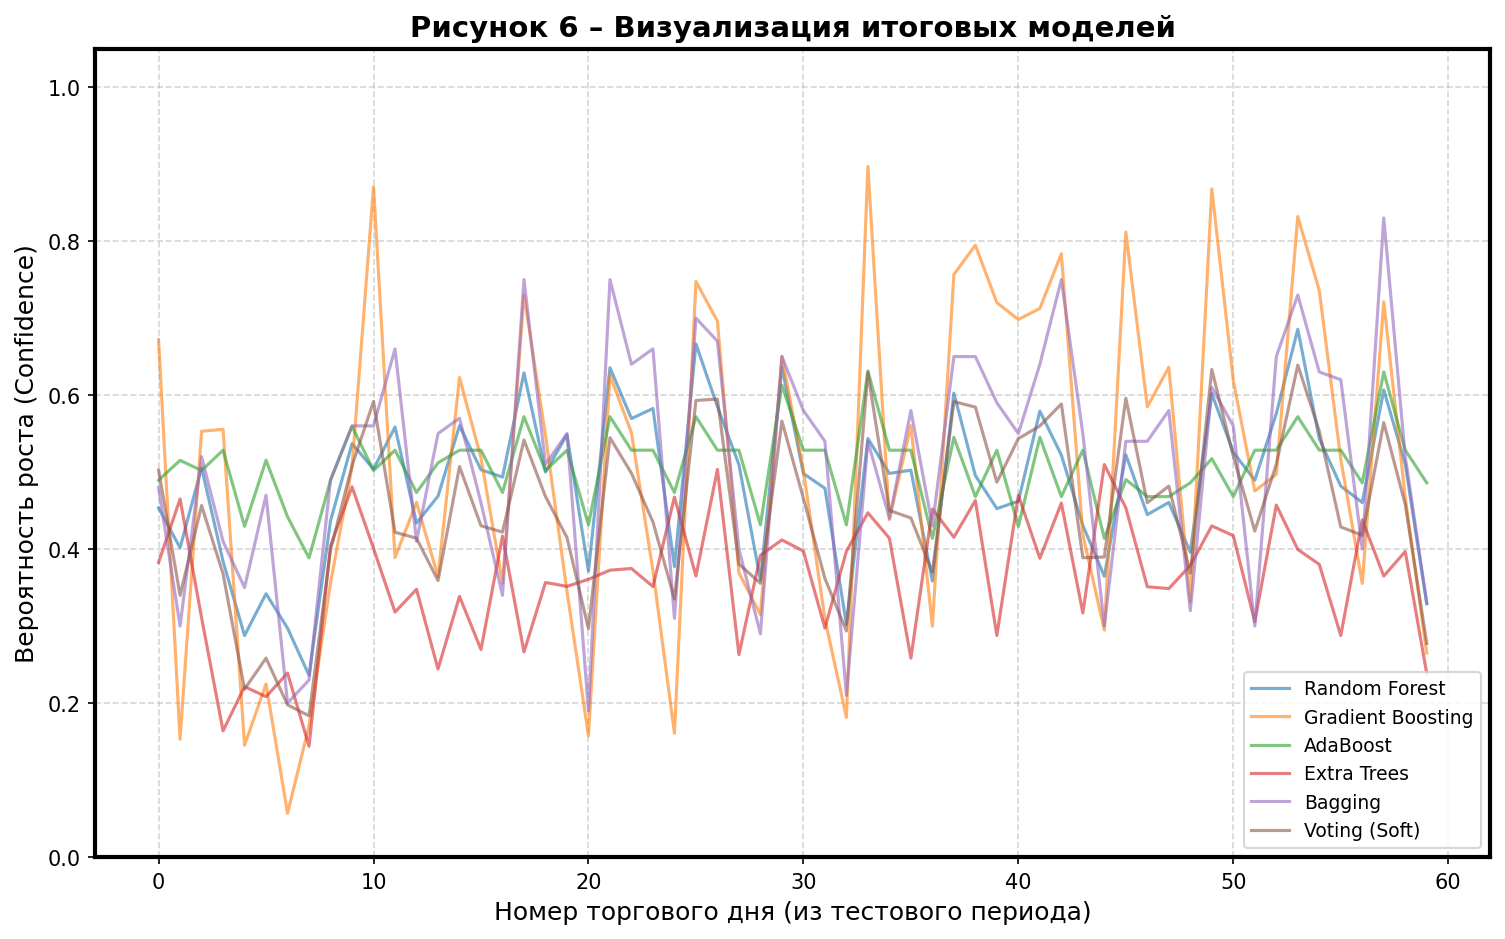
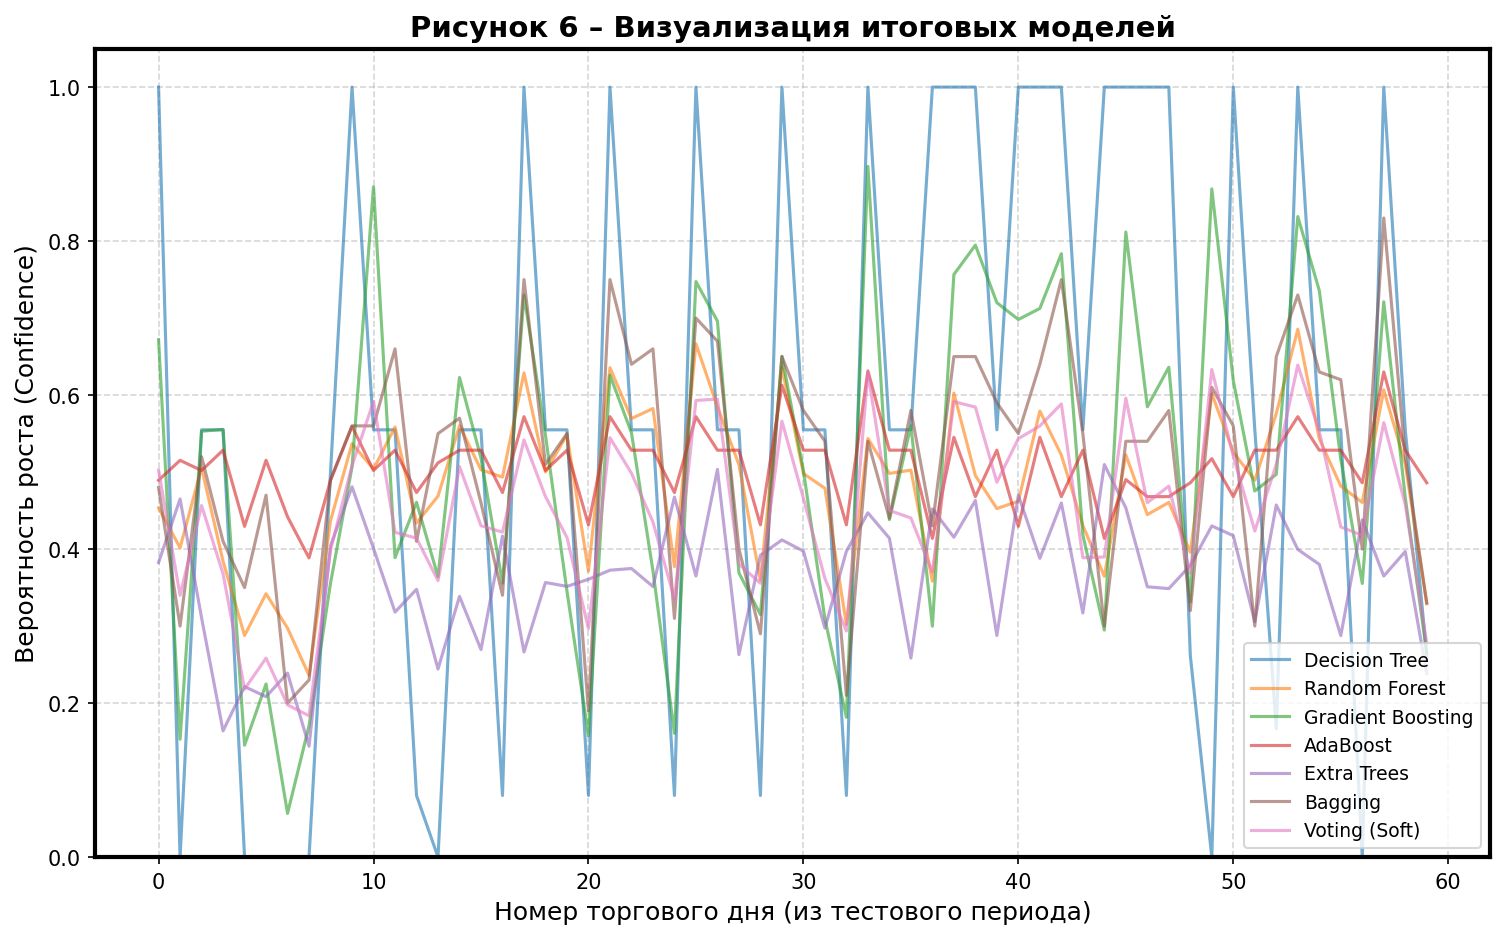
fixes

diff --git a/testing/3_0_cross_validation.py b/testing/3_0_cross_validation.py
@@ -1,12 +1,10 @@
-"""
-Запускать из корня проекта: python3 testing/3_0_cross_validation.py
-"""
 import sys
 from pathlib import Path
 sys.path.insert(0, str(Path(__file__).resolve().parent.parent))
 
 import pandas as pd
-from sklearn.model_selection import cross_val_score, KFold
+import matplotlib.pyplot as plt
+from sklearn.model_selection import cross_val_score, TimeSeriesSplit
 from data_utils import get_splits
 from design.models import all_models
 
@@ -14,15 +12,32 @@ X_train, X_test, y_train, y_test, _ = get_splits()
 X = pd.concat([X_train, X_test], axis=0).reset_index(drop=True)
 y = pd.concat([y_train, y_test], axis=0).reset_index(drop=True)
 
-cv = KFold(n_splits=5, shuffle=False, random_state=None)
-print("K-fold кросс-валидация (k=5), метрика: accuracy")
-print("=" * 60)
+tscv = TimeSeriesSplit(n_splits=5)
 
+results = {}
 for name, model in all_models.items():
-    scores = cross_val_score(model, X, y, cv=cv, scoring='accuracy', n_jobs=-1)
+    scores = cross_val_score(model, X, y, cv=tscv, scoring='accuracy', n_jobs=-1)
     mean_acc = scores.mean()
     std_acc = scores.std()
-    print(f"{name}: {mean_acc:.4f} (+/- {std_acc:.4f})  [fold scores: {scores.round(4)}]")
+    results[name] = {'mean': mean_acc, 'std': std_acc, 'scores': scores}
+    print(f"{name:22s}: {mean_acc:.4f} (+/- {std_acc:.4f})")
 
-print("=" * 60)
-print("Итоговая эффективность модели должна оцениваться на отложенной тестовой выборке (см. 3_1_metrics, 2_3_results).")
+fig, ax = plt.subplots(figsize=(12, 7))
+names = list(results.keys())
+means = [results[n]['mean'] for n in names]
+stds = [results[n]['std'] for n in names]
+
+bars = ax.barh(names, means, xerr=stds, color='#00BFFF', edgecolor='black', capsize=5)
+ax.axvline(x=0.5, color='red', linestyle='--', linewidth=2, label='Случайное угадывание (50%)')
+ax.set_xlabel('Средняя точность (Accuracy)', fontsize=12)
+ax.set_title('Рисунок 10 – Кросс-валидация (TimeSeriesSplit, k=5)', fontsize=14, fontweight='bold')
+ax.set_xlim(0.3, 0.7)
+ax.legend(loc='lower right')
+ax.invert_yaxis()
+
+for i, (mean, std) in enumerate(zip(means, stds)):
+    ax.text(mean + std + 0.01, i, f'{mean:.3f}', va='center', fontsize=10, fontweight='bold')
+
+plt.tight_layout()
+plt.savefig('images/Figure_10_CrossValidation.png', dpi=150, bbox_inches='tight')
+plt.close()

diff --git a/design/2_3_results.py b/design/2_3_results.py
@@ -14,23 +14,37 @@ results = {}
 train_times = {}
 trained_models = {}
 
+
 for name, model in all_models.items():
-    t0 = time.perf_counter()
+    t0 = time.time()
     model.fit(X_train, y_train)
-    elapsed = time.perf_counter() - t0
+    elapsed = time.time() - t0
+    
     train_times[name] = elapsed
     preds = model.predict(X_test)
     acc = accuracy_score(y_test, preds)
     results[name] = acc
     trained_models[name] = model
-    print(f"{name}: accuracy {acc:.2%}, время обучения {elapsed:.2f} с")
+    print(f"{name:22s}: Accuracy {acc:.2%}, Время обучения: {elapsed:.4f} сек")
+
+print("="*70)
+
+print("\n" + "="*70)
+print("СВОДКА РЕЗУЛЬТАТОВ")
+print("="*70)
+sorted_res = sorted(results.items(), key=lambda x: x[1], reverse=True)
+print(f"{'Модель':<24} {'Accuracy':>10} {'Время (сек)':>12}")
+print("-"*48)
+for name, acc in sorted_res:
+    print(f"{name:<24} {acc:>10.4f} {train_times[name]:>12.4f}")
+print("="*70)
 
 plt.figure(figsize=(12, 7))
 slice_len = 60
 X_plot = X_test.iloc[:slice_len]
 
 for name, model in trained_models.items():
-    if name == 'Voting (Hard)':
+    if name in ['Voting (Hard)', 'Logistic Regression']:
         continue
     probs = model.predict_proba(X_plot)[:, 1]
     plt.plot(range(len(X_plot)), probs, label=name, alpha=0.6, linewidth=1.5)
@@ -49,13 +63,14 @@ plt.savefig('images/Figure_6_ModelDynamics.png', bbox_inches='tight', dpi=150)
 plt.close()
 
 plt.figure(figsize=(10, 6))
-sorted_res = dict(sorted(results.items(), key=lambda x: x[1], reverse=True))
-plt.barh(list(sorted_res.keys()), list(sorted_res.values()), color='#00BFFF', height=0.6)
+sorted_res_dict = dict(sorted(results.items(), key=lambda x: x[1], reverse=True))
+plt.barh(list(sorted_res_dict.keys()), list(sorted_res_dict.values()), color='#00BFFF', height=0.6)
 plt.axvline(x=0.5, color='red', linestyle='--')
 plt.xlim(0, 0.7)
 plt.title('Рисунок 7 – Итоговая точность моделей (Accuracy)', fontsize=12, fontweight='bold')
 plt.gca().invert_yaxis()
-for i, v in enumerate(sorted_res.values()):
+for i, v in enumerate(sorted_res_dict.values()):
     plt.text(v + 0.005, i, f'{v:.4f}', va='center', fontweight='bold')
 plt.savefig('images/Figure_7_GlobalComparison.png', bbox_inches='tight', dpi=150)
 plt.close()
+

diff --git a/design/models.py b/design/models.py
@@ -1,5 +1,12 @@
 from sklearn.ensemble import RandomForestClassifier, GradientBoostingClassifier, AdaBoostClassifier, ExtraTreesClassifier, BaggingClassifier, VotingClassifier
 from sklearn.tree import DecisionTreeClassifier
+from sklearn.linear_model import LogisticRegression
+
+# Decision Tree 
+dt_model = DecisionTreeClassifier(max_depth=10, random_state=42)
+
+# Logistic Regression 
+lr_model = LogisticRegression(max_iter=1000, random_state=42)
 
 # Random Forest
 rf_model = RandomForestClassifier(n_estimators=100, max_depth=10, random_state=42)
@@ -29,6 +36,8 @@ vote_hard = VotingClassifier(estimators=estimators, voting='hard')
 vote_soft = VotingClassifier(estimators=estimators, voting='soft')
 
 all_models = {
+    "Decision Tree": dt_model,
+    "Logistic Regression": lr_model,
     "Random Forest": rf_model,
     "Gradient Boosting": gb_model,
     "AdaBoost": ada_model,
@@ -37,3 +46,5 @@ all_models = {
     "Voting (Hard)": vote_hard,
     "Voting (Soft)": vote_soft
 }
+
+

diff --git a/analysis/1_3_eda.py b/analysis/1_3_eda.py
@@ -1,0 +1,20 @@
+import sys
+from pathlib import Path
+sys.path.insert(0, str(Path(__file__).resolve().parent.parent))
+
+import matplotlib.pyplot as plt
+import seaborn as sns
+import pandas as pd
+
+df = pd.read_csv('Data/CleanedData.csv')
+
+numeric_cols = ['Price', 'Open', 'High', 'Low', 'Vol.', 'Change %', 'Spread']
+corr_matrix = df[numeric_cols].corr()
+
+fig, ax = plt.subplots(figsize=(10, 8))
+sns.heatmap(corr_matrix, annot=True, fmt='.2f', cmap='coolwarm', center=0,
+            square=True, linewidths=0.5, ax=ax, vmin=-1, vmax=1)
+ax.set_title('Рисунок 2.1 – Матрица корреляций признаков', fontsize=14, fontweight='bold', pad=20)
+plt.tight_layout()
+plt.savefig('images/Figure_2_1_Correlation.png', dpi=150, bbox_inches='tight')
+plt.close()
